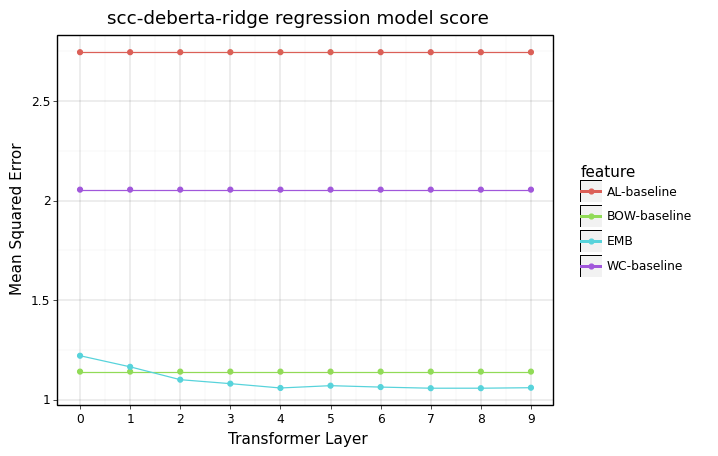
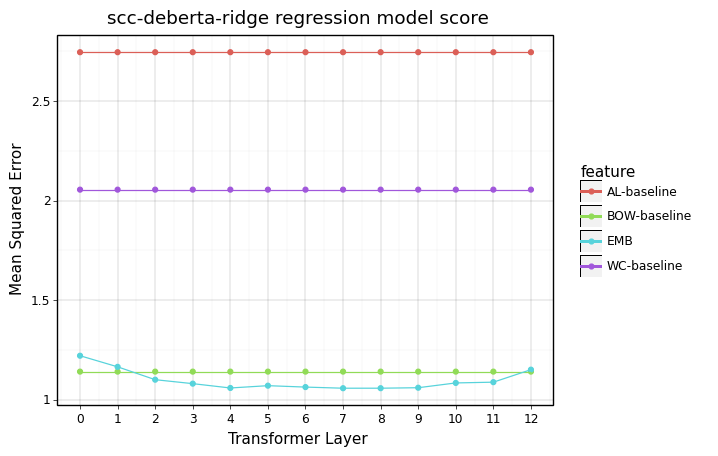
updated plots again

diff --git a/plot_figs.py b/plot_figs.py
@@ -72,7 +72,7 @@ def make_AL_WC_plot(df_name, num_bin = 8):
 def ridge_out_plot(ridge_out_file, overwrite = False):
     results = pd.read_csv(ridge_out_file, header=None, names=['layer', 'r2score', 'mse', 'model_alpha', 'feature'])
     results.replace(r'\[*\]*\s*\'*','', regex=True, inplace=True) 
-
+    results['layer'] = results['layer'].astype('int')
     model_layer = max(results['layer'])
     save_path = 'figs/ridge'
     figure_title = os.path.basename(ridge_out_file)[:-4]
